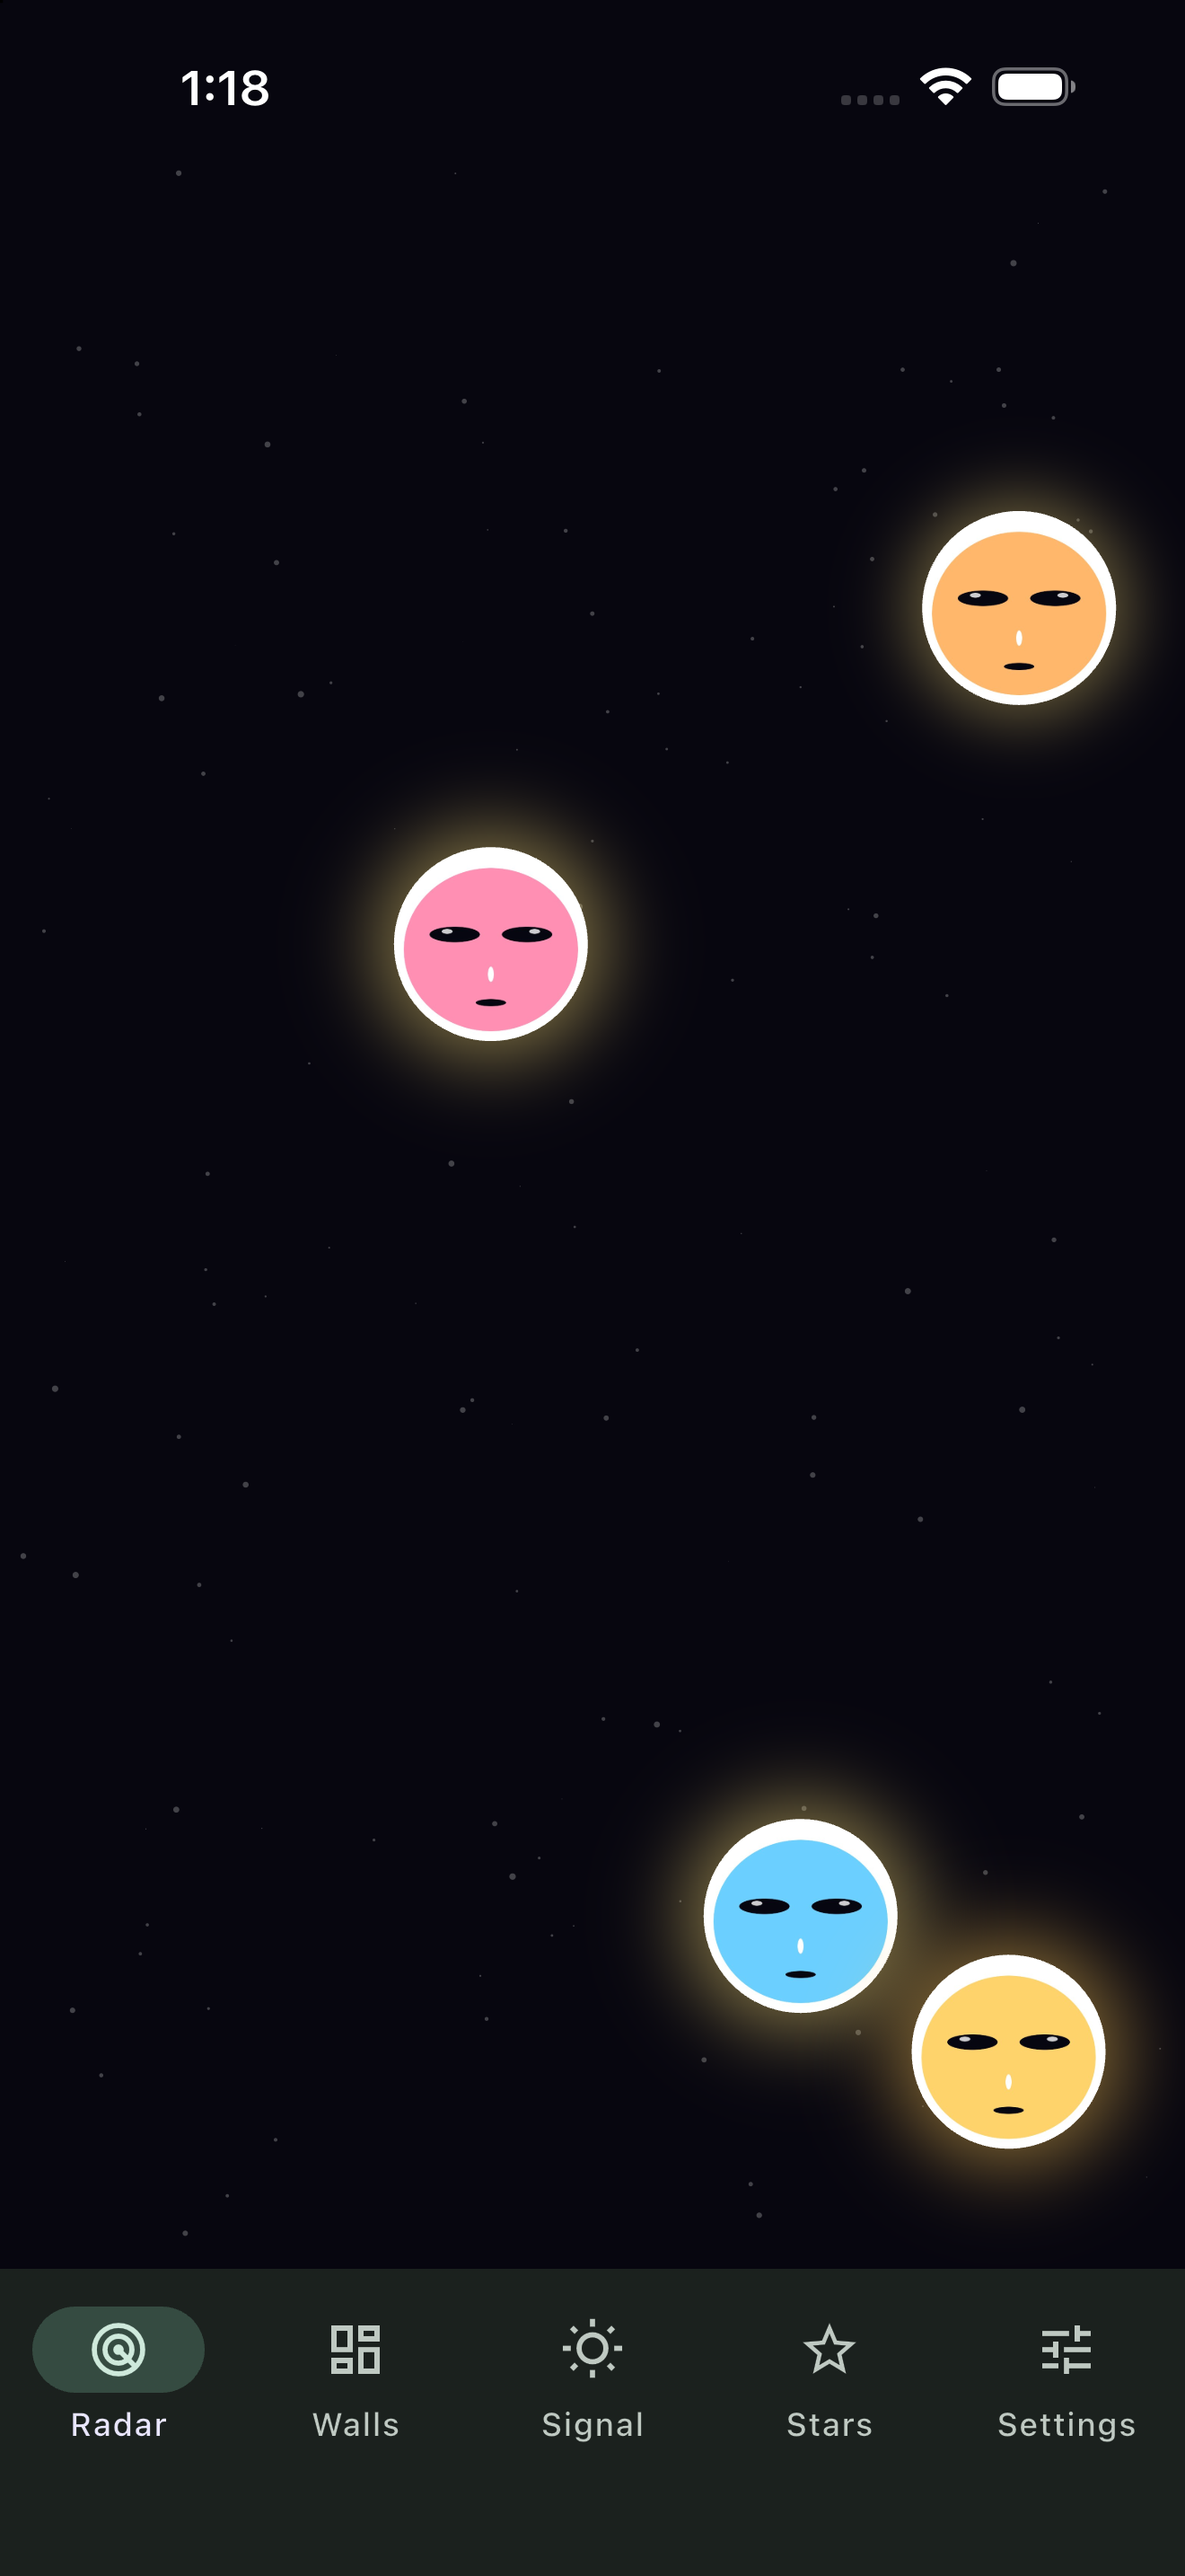
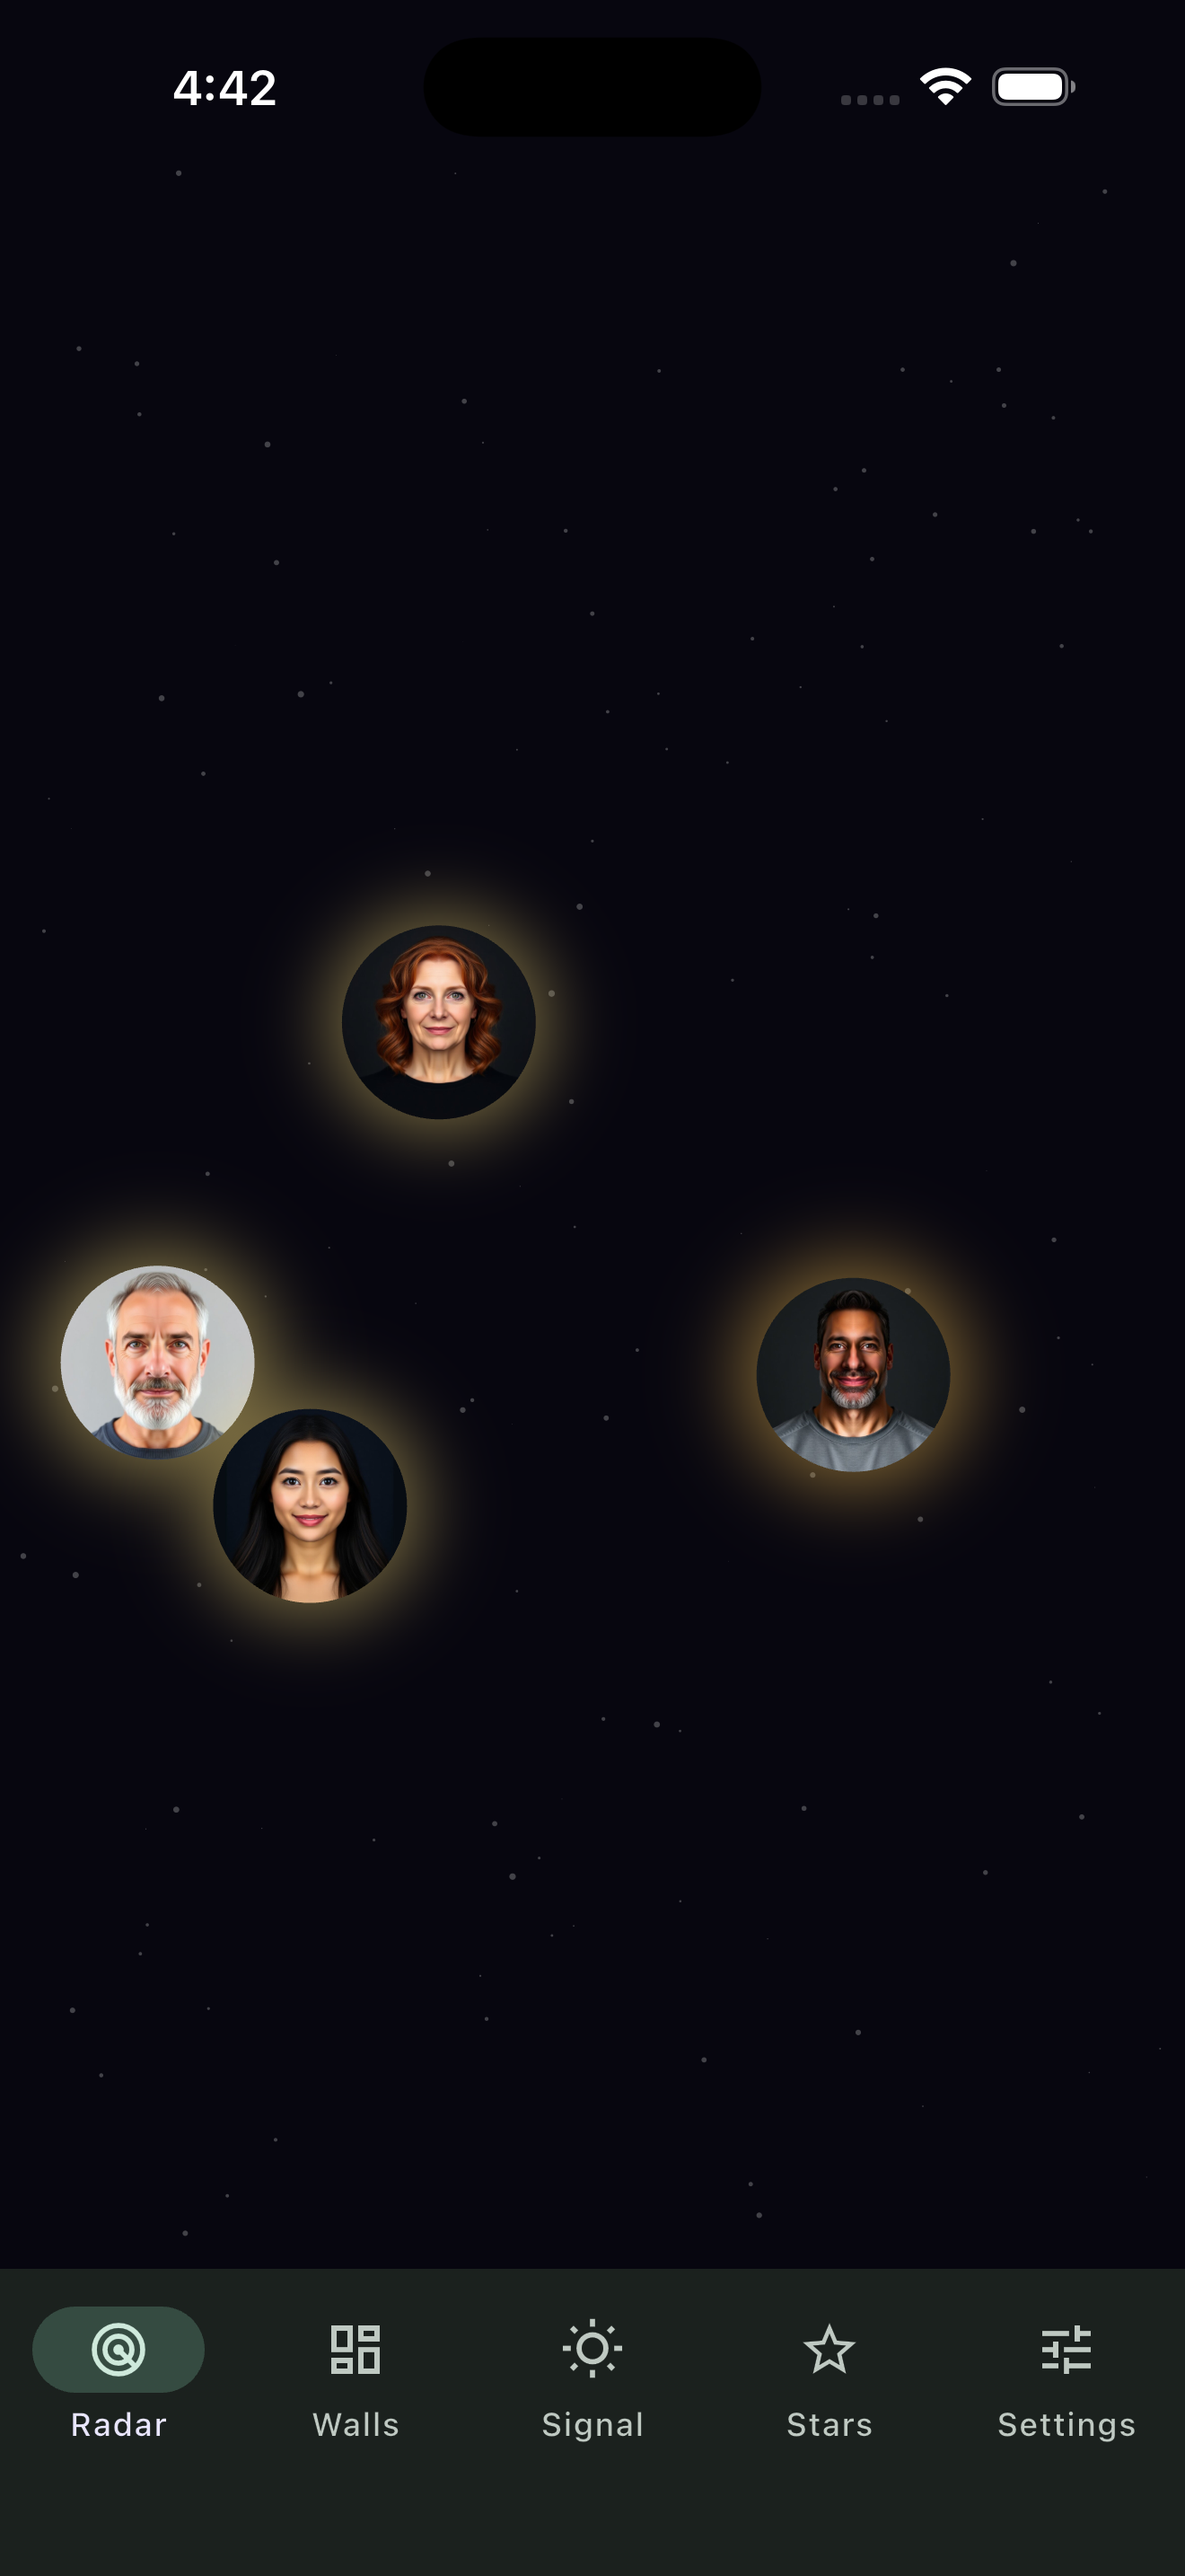
AlienMatch: realistic mirror faces, planet detail, variant picker, faces gallery
Claude-Session: https://claude.ai/code/session_01RgN3TZpkpPfiyo1bC2XK1x

diff --git a/apps/alienmatch/meta.md b/apps/alienmatch/meta.md
@@ -5,6 +5,7 @@ repo: lioilsources/AlienMatch
 tagline: Seznamka beze slov, kde jsi mimozemšťan a páruješ se podle nálady
 order: 37
 featured: false
+visuals: Osm vymyšlených tváří, každá v obou symetrických variantách.
 desktop:
 mobile: android,ios
 artifacts:
